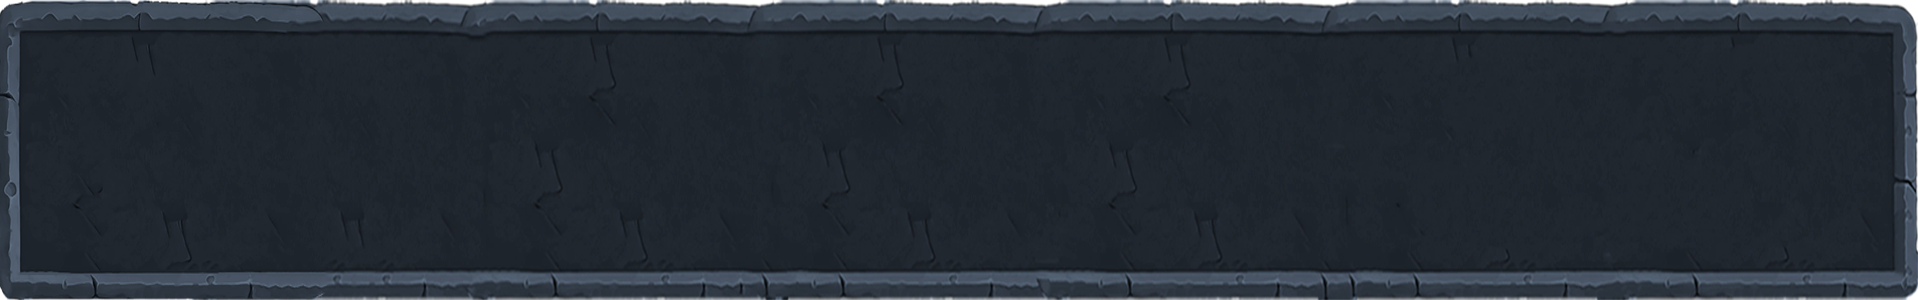
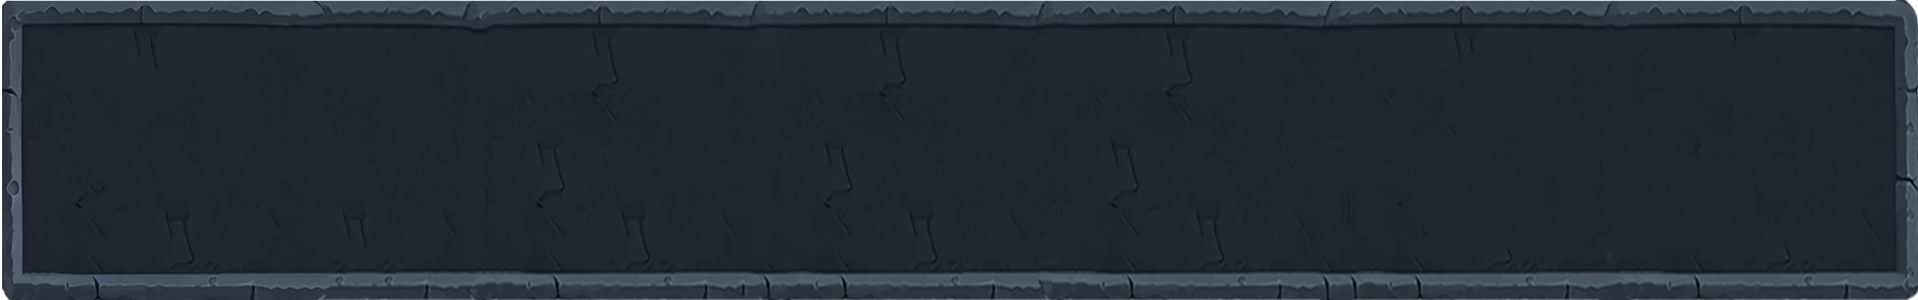
estilizar botões

diff --git a/FRONTEND/index.html b/FRONTEND/index.html
@@ -57,7 +57,7 @@
                     <span class="text2">Xbox</span>
                 </div>
             </button>
-            <button class="frutiger-button3"  id="nintendo-switch">
+            <button class="frutiger-button3" id="nintendo-switch">
                 <div class="inner3">
                     <div class="top-white"></div>
                     <span class="text3">Nintendo Switch</span>
@@ -139,17 +139,57 @@
                 <div class="logo">
                     <img src="img/logo1.png" alt="">
                 </div>
-                <div class="redes">
+                <!-- <div class="redes">
                     <img src="img/instagram2.png" alt="">
                     <img src="img/facebook2 .png" alt="">
                     <img src="img/youtube.png" alt="">
-                </div>
+                </div> -->
+                <!-- From Uiverse.io by wilsondesouza -->
+                <ul class="example-2">
+                    <li class="icon-content">
+                        <a data-social="whatsapp" aria-label="Whatsapp"
+                            href="https://api.whatsapp.com/send?phone=+112067101079&amp;text=Save%20this%20to%20your%20Favorites%20-%20@wilsondesouza">
+                            <div class="filled"></div>
+                            <svg xml:space="preserve" viewBox="0 0 24 24" class="bi bi-whatsapp" fill="currentColor"
+                                height="24" width="24" xmlns="http://www.w3.org/2000/svg">
+                                <path fill="currentColor"
+                                    d="M17.472 14.382c-.297-.149-1.758-.867-2.03-.967-.273-.099-.471-.148-.67.15-.197.297-.767.966-.94 1.164-.173.199-.347.223-.644.075-.297-.15-1.255-.463-2.39-1.475-.883-.788-1.48-1.761-1.653-2.059-.173-.297-.018-.458.13-.606.134-.133.298-.347.446-.52.149-.174.198-.298.298-.497.099-.198.05-.371-.025-.52-.075-.149-.669-1.612-.916-2.207-.242-.579-.487-.5-.669-.51-.173-.008-.371-.01-.57-.01-.198 0-.52.074-.792.372-.272.297-1.04 1.016-1.04 2.479 0 1.462 1.065 2.875 1.213 3.074.149.198 2.096 3.2 5.077 4.487.709.306 1.262.489 1.694.625.712.227 1.36.195 1.871.118.571-.085 1.758-.719 2.006-1.413.248-.694.248-1.289.173-1.413-.074-.124-.272-.198-.57-.347m-5.421 7.403h-.004a9.87 9.87 0 01-5.031-1.378l-.361-.214-3.741.982.998-3.648-.235-.374a9.86 9.86 0 01-1.51-5.26c.001-5.45 4.436-9.884 9.888-9.884 2.64 0 5.122 1.03 6.988 2.898a9.825 9.825 0 012.893 6.994c-.003 5.45-4.437 9.884-9.885 9.884m8.413-18.297A11.815 11.815 0 0012.05 0C5.495 0 .16 5.335.157 11.892c0 2.096.547 4.142 1.588 5.945L.057 24l6.305-1.654a11.882 11.882 0 005.683 1.448h.005c6.554 0 11.89-5.335 11.893-11.893a11.821 11.821 0 00-3.48-8.413Z">
+                                </path>
+                            </svg>
+                        </a>
+                        <div class="tooltip">Whatsapp</div>
+                    </li>
+                    <li class="icon-content">
+                        <a data-social="facebook" aria-label="Facebook" href="https://www.facebook.com/">
+                            <div class="filled"></div>
+                            <svg xml:space="preserve" viewBox="0 0 24 24" class="bi bi-facbook" fill="currentColor"
+                                height="24" width="24" xmlns="http://www.w3.org/2000/svg">
+                                <path fill="currentColor"
+                                    d="M23.9981 11.9991C23.9981 5.37216 18.626 0 11.9991 0C5.37216 0 0 5.37216 0 11.9991C0 17.9882 4.38789 22.9522 10.1242 23.8524V15.4676H7.07758V11.9991H10.1242V9.35553C10.1242 6.34826 11.9156 4.68714 14.6564 4.68714C15.9692 4.68714 17.3424 4.92149 17.3424 4.92149V7.87439H15.8294C14.3388 7.87439 13.8739 8.79933 13.8739 9.74824V11.9991H17.2018L16.6698 15.4676H13.8739V23.8524C19.6103 22.9522 23.9981 17.9882 23.9981 11.9991Z">
+                                </path>
+                            </svg>
+                        </a>
+                        <div class="tooltip">Facebook</div>
+                    </li>
+                    <li class="icon-content">
+                        <a data-social="instagram" aria-label="Instagram" href="https://www.instagram.com/">
+                            <div class="filled"></div>
+                            <svg xml:space="preserve" viewBox="0 0 16 16" class="bi bi-instagram" fill="currentColor"
+                                height="16" width="16" xmlns="http://www.w3.org/2000/svg">
+                                <path fill="currentColor"
+                                    d="M8 0C5.829 0 5.556.01 4.703.048 3.85.088 3.269.222 2.76.42a3.9 3.9 0 0 0-1.417.923A3.9 3.9 0 0 0 .42 2.76C.222 3.268.087 3.85.048 4.7.01 5.555 0 5.827 0 8.001c0 2.172.01 2.444.048 3.297.04.852.174 1.433.372 1.942.205.526.478.972.923 1.417.444.445.89.719 1.416.923.51.198 1.09.333 1.942.372C5.555 15.99 5.827 16 8 16s2.444-.01 3.298-.048c.851-.04 1.434-.174 1.943-.372a3.9 3.9 0 0 0 1.416-.923c.445-.445.718-.891.923-1.417.197-.509.332-1.09.372-1.942C15.99 10.445 16 10.173 16 8s-.01-2.445-.048-3.299c-.04-.851-.175-1.433-.372-1.941a3.9 3.9 0 0 0-.923-1.417A3.9 3.9 0 0 0 13.24.42c-.51-.198-1.092-.333-1.943-.372C10.443.01 10.172 0 7.998 0zm-.717 1.442h.718c2.136 0 2.389.007 3.232.046.78.035 1.204.166 1.486.275.373.145.64.319.92.599s.453.546.598.92c.11.281.24.705.275 1.485.039.843.047 1.096.047 3.231s-.008 2.389-.047 3.232c-.035.78-.166 1.203-.275 1.485a2.5 2.5 0 0 1-.599.919c-.28.28-.546.453-.92.598-.28.11-.704.24-1.485.276-.843.038-1.096.047-3.232.047s-2.39-.009-3.233-.047c-.78-.036-1.203-.166-1.485-.276a2.5 2.5 0 0 1-.92-.598 2.5 2.5 0 0 1-.6-.92c-.109-.281-.24-.705-.275-1.485-.038-.843-.046-1.096-.046-3.233s.008-2.388.046-3.231c.036-.78.166-1.204.276-1.486.145-.373.319-.64.599-.92s.546-.453.92-.598c.282-.11.705-.24 1.485-.276.738-.034 1.024-.044 2.515-.045zm4.988 1.328a.96.96 0 1 0 0 1.92.96.96 0 0 0 0-1.92m-4.27 1.122a4.109 4.109 0 1 0 0 8.217 4.109 4.109 0 0 0 0-8.217m0 1.441a2.667 2.667 0 1 1 0 5.334 2.667 2.667 0 0 1 0-5.334">
+                                </path>
+                            </svg>
+                        </a>
+                        <div class="tooltip">Instagram</div>
+                    </li>
+                </ul>
             </div>
             <div id="sobrenos">
                 <ul>
                     <li><strong>Sobre Nós</strong></li><br>
                     <li>Quem somos</li>
-                    <li>Vejam onde estão nossas livrarias</li>
+                    <li>Vejam onde estão nossos jogos</li>
                     <li>Eventos</li>
                 </ul>
             </div>
@@ -159,7 +199,7 @@
                     <li><strong>Atendimento Site</strong></li><br>
                     <li>Fale conosco</li>
                     <li><img src="" alt=""> (11) 5556-9968</li>
-                    <li>atendimento@livraria.com.br</li>
+                    <li>atendimento@jogos.com.br</li>
                     <li>Segunda à Sexta, das <strong>8h30</strong>às <strong>17h30</strong></li>
                     <li>Sábados, Domingos e feriados, sem exprediente</li>
                 </ul>

diff --git a/FRONTEND/css/jogo.css b/FRONTEND/css/jogo.css
@@ -45,21 +45,23 @@ header {
   align-items: start;
   width: 350px;
   height: 100px;
+  margin-top: -15px;
 }
 
 #busca #pesquisa form {
-  border: 1px solid rgb(100, 73, 0);
+  border: 3px solid rgb(100, 73, 0);
   padding: 10px;
-  width: 700px;
+  width: 600px;
   border-radius: 30px;
   background-color: rgba(85, 83, 83, 0.384);
+  height: 80px;
   
 }
 
 #busca #pesquisa input {
   width: 90%;
-  padding: 5px;
-  border: 0;
+  padding: 2px;
+  border: 12px solid rgba(255, 255, 255, 0);
   background-color: rgba(44, 44, 44, 0);
   outline: none;
   color: white;
@@ -67,14 +69,29 @@ header {
 
 #busca #pesquisa button {
   width: 6%;
-  border: 0;
+  border: 10px;
   background-color: rgba(190, 190, 190, 0);
 }
 
 #busca #pesquisa img {
-  width: 30px;
-  height: 40px;
+  width: 40px;
+  height: 50px;
+  border-radius: 10%;
+  cursor: pointer;
+  box-shadow: transparent;
+  transition: 0.5s ease;
+  user-select: none;
 }
+#busca #pesquisa img:hover,:focus {
+  color: #ffffff;
+  background: #008cff;
+  border-radius: 20px;
+  border: 1px solid #008cff;
+  box-shadow: 0 0 5px #008cff, 0 0 20px #008cff, 0 0 50px #008cff,
+    0 0 100px #008cff; 
+}
+
+
 
 #busca #usuario-compra {
   display: flex;
@@ -84,9 +101,22 @@ header {
   height: 0px;
 }
 
-#usuario-compra a img {
-  width: 50px;
-  height: 60px;
+#usuario-compra  img {
+  width: 60px;
+  height: 80px;
+  border-radius: 10%;
+  cursor: pointer;
+  box-shadow: transparent;
+  transition: 0.5s ease;
+  user-select: none;
+}
+
+#usuario-compra img:hover,:focus {
+  color: #ffffff;
+  /* background: #008cff; */
+  border: 1px solid #008cff;
+  box-shadow: 0 0 5px #008cff, 0 0 20px #008cff, 0 0 50px #008cff,
+    0 0 100px #008cff; 
 }
 
 #busca #usuario-compra a {
@@ -94,9 +124,14 @@ header {
   padding: 0 35px;
   text-decoration: none;
   font-size: 10pt;
-  color: rgb(21, 255, 0);
+  color: rgb(255, 255, 255);
   margin-left: 2px;
 
+}
+#busca #usuario-compra a:hover{
+  color: lime;
+  text-decoration: underline;
+  cursor: pointer;
 }
 /*****************************************************************************************************/
 /*****************************************************************************************************/
@@ -585,10 +620,110 @@ footer #aplicativo{
 } 
 
 
- #populares1 h2, #mais_vendidos1 h2, #CATEGORIAS1 h2{
+#populares1 h2, #mais_vendidos1 h2, #CATEGORIAS1 h2{
   display: flex;
   justify-content: center;
   font-size: 36pt;
   margin-top: 15px;
- }
+}
+
+/*==================================== ESTILIZANDO O RODAPÉ [PAGINA_JOGO] ================================== */
+
+/* From Uiverse.io by wilsondesouza */ 
+ul {
+  list-style: none;
+}
+
+.example-2 {
+  display: flex;
+  justify-content: center;
+  align-items: center;
+}
+.example-2 .icon-content {
+  margin: 0 10px;
+  position: relative;
+}
+.example-2 .icon-content .tooltip {
+  position: absolute;
+  top: -30px;
+  left: 50%;
+  transform: translateX(-50%);
+  color: #fff;
+  padding: 6px 10px;
+  border-radius: 5px;
+  opacity: 0;
+  visibility: hidden;
+  font-size: 14px;
+  transition: all 0.3s ease;
+}
+.example-2 .icon-content:hover .tooltip {
+  opacity: 1;
+  visibility: visible;
+  top: -50px;
+}
+.example-2 .icon-content a {
+  position: relative;
+  overflow: hidden;
+  display: flex;
+  justify-content: center;
+  align-items: center;
+  width: 50px;
+  height: 50px;
+  border-radius: 50%;
+  color: #4d4d4d;
+  background-color: #fff;
+  transition: all 0.3s ease-in-out;
+}
+.example-2 .icon-content a:hover {
+  box-shadow: 3px 2px 45px 0px rgb(0 0 0 / 12%);
+}
+.example-2 .icon-content a svg {
+  position: relative;
+  z-index: 1;
+  width: 30px;
+  height: 30px;
+}
+.example-2 .icon-content a:hover {
+  color: white;
+}
+.example-2 .icon-content a .filled {
+  position: absolute;
+  top: auto;
+  bottom: 0;
+  left: 0;
+  width: 100%;
+  height: 0;
+  background-color: #000;
+  transition: all 0.3s ease-in-out;
+}
+.example-2 .icon-content a:hover .filled {
+  height: 100%;
+}
+
+.example-2 .icon-content a[data-social="whatsapp"] .filled,
+.example-2 .icon-content a[data-social="whatsapp"] ~ .tooltip {
+  background-color: #128c7e;
+}
+
+.example-2 .icon-content a[data-social="facebook"] .filled,
+.example-2 .icon-content a[data-social="facebook"] ~ .tooltip {
+  background-color: #3b5998;
+}
+.example-2 .icon-content a[data-social="instagram"] .filled,
+.example-2 .icon-content a[data-social="instagram"] ~ .tooltip {
+  background: linear-gradient(
+    45deg,
+    #405de6,
+    #5b51db,
+    #b33ab4,
+    #c135b4,
+    #e1306c,
+    #fd1f1f
+  );
+}
+.example-2 .icon-content a[data-social="youtube"] .filled,
+.example-2 .icon-content a[data-social="youtube"] ~ .tooltip {
+  background-color: #ff0000;
+}
+
 
